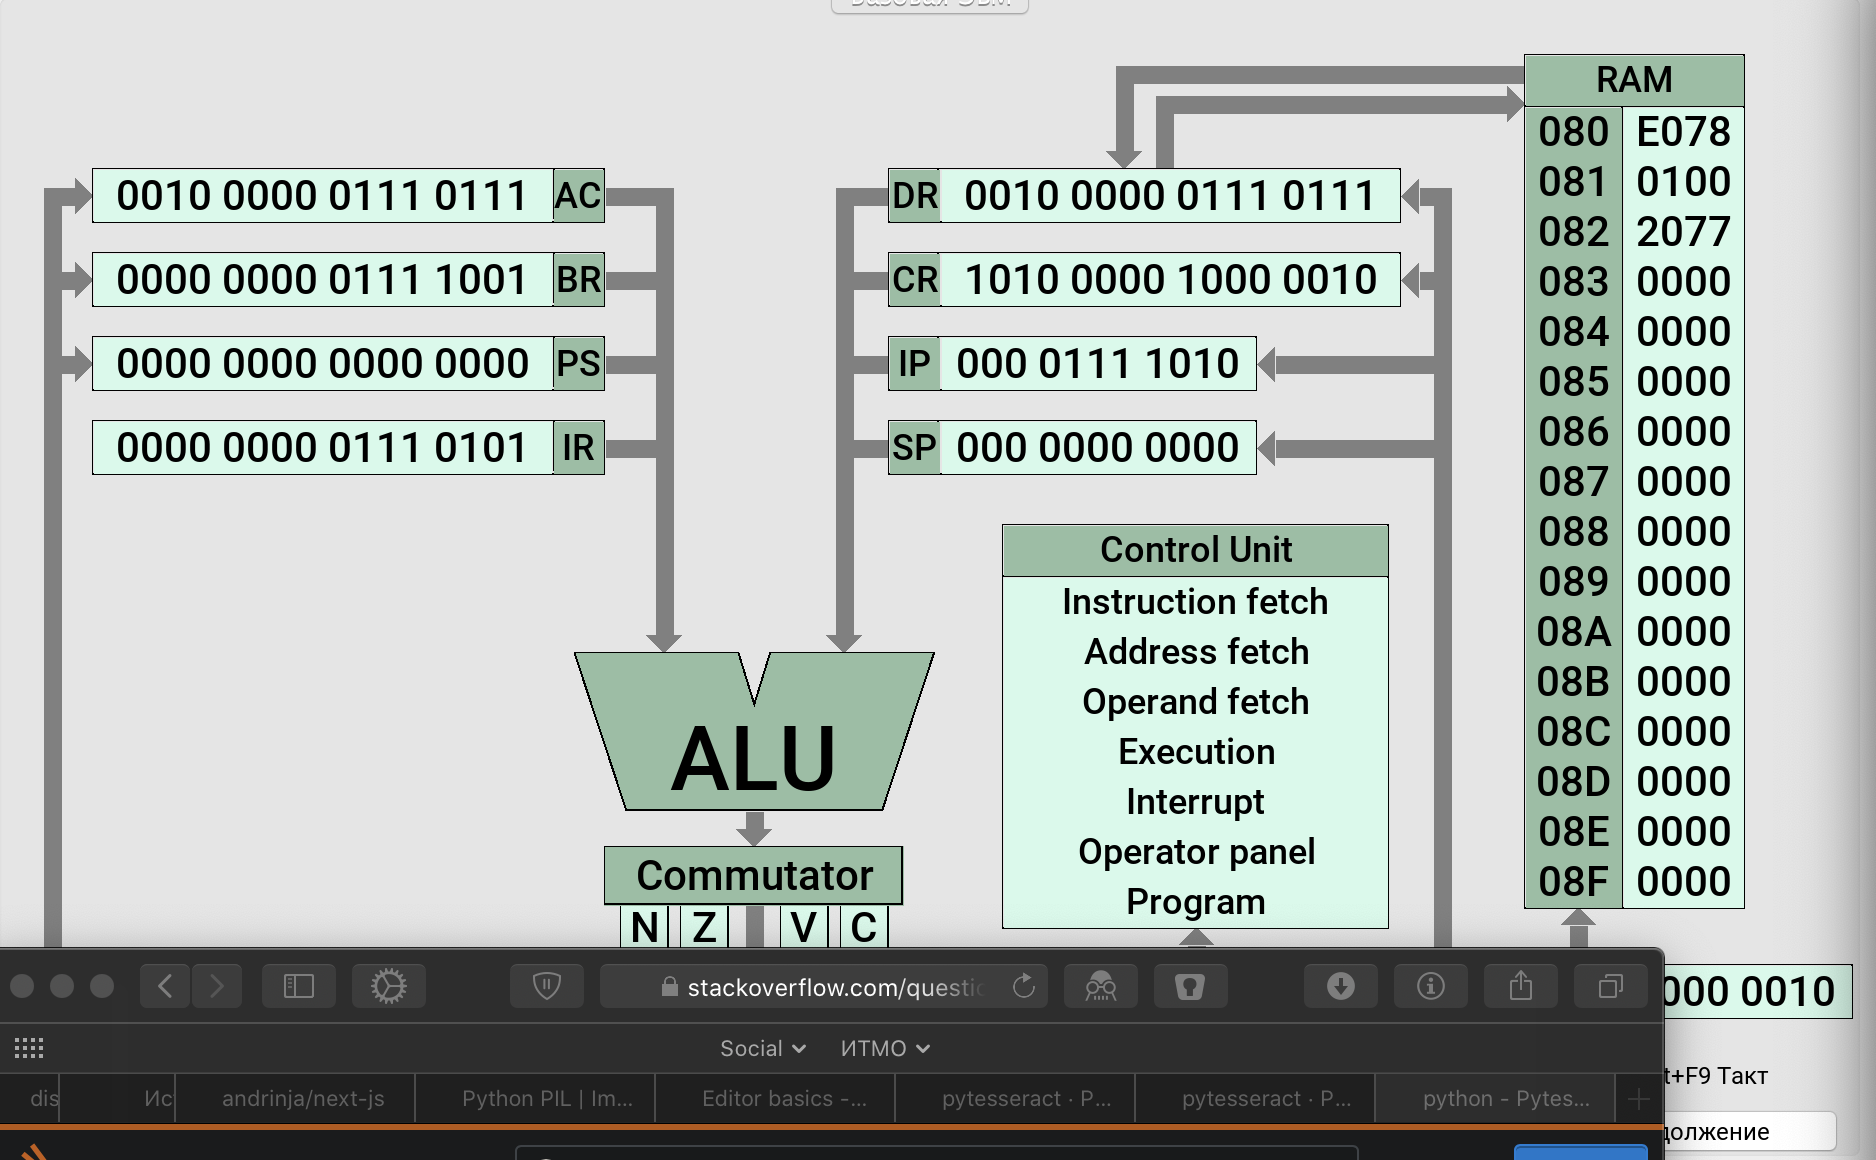
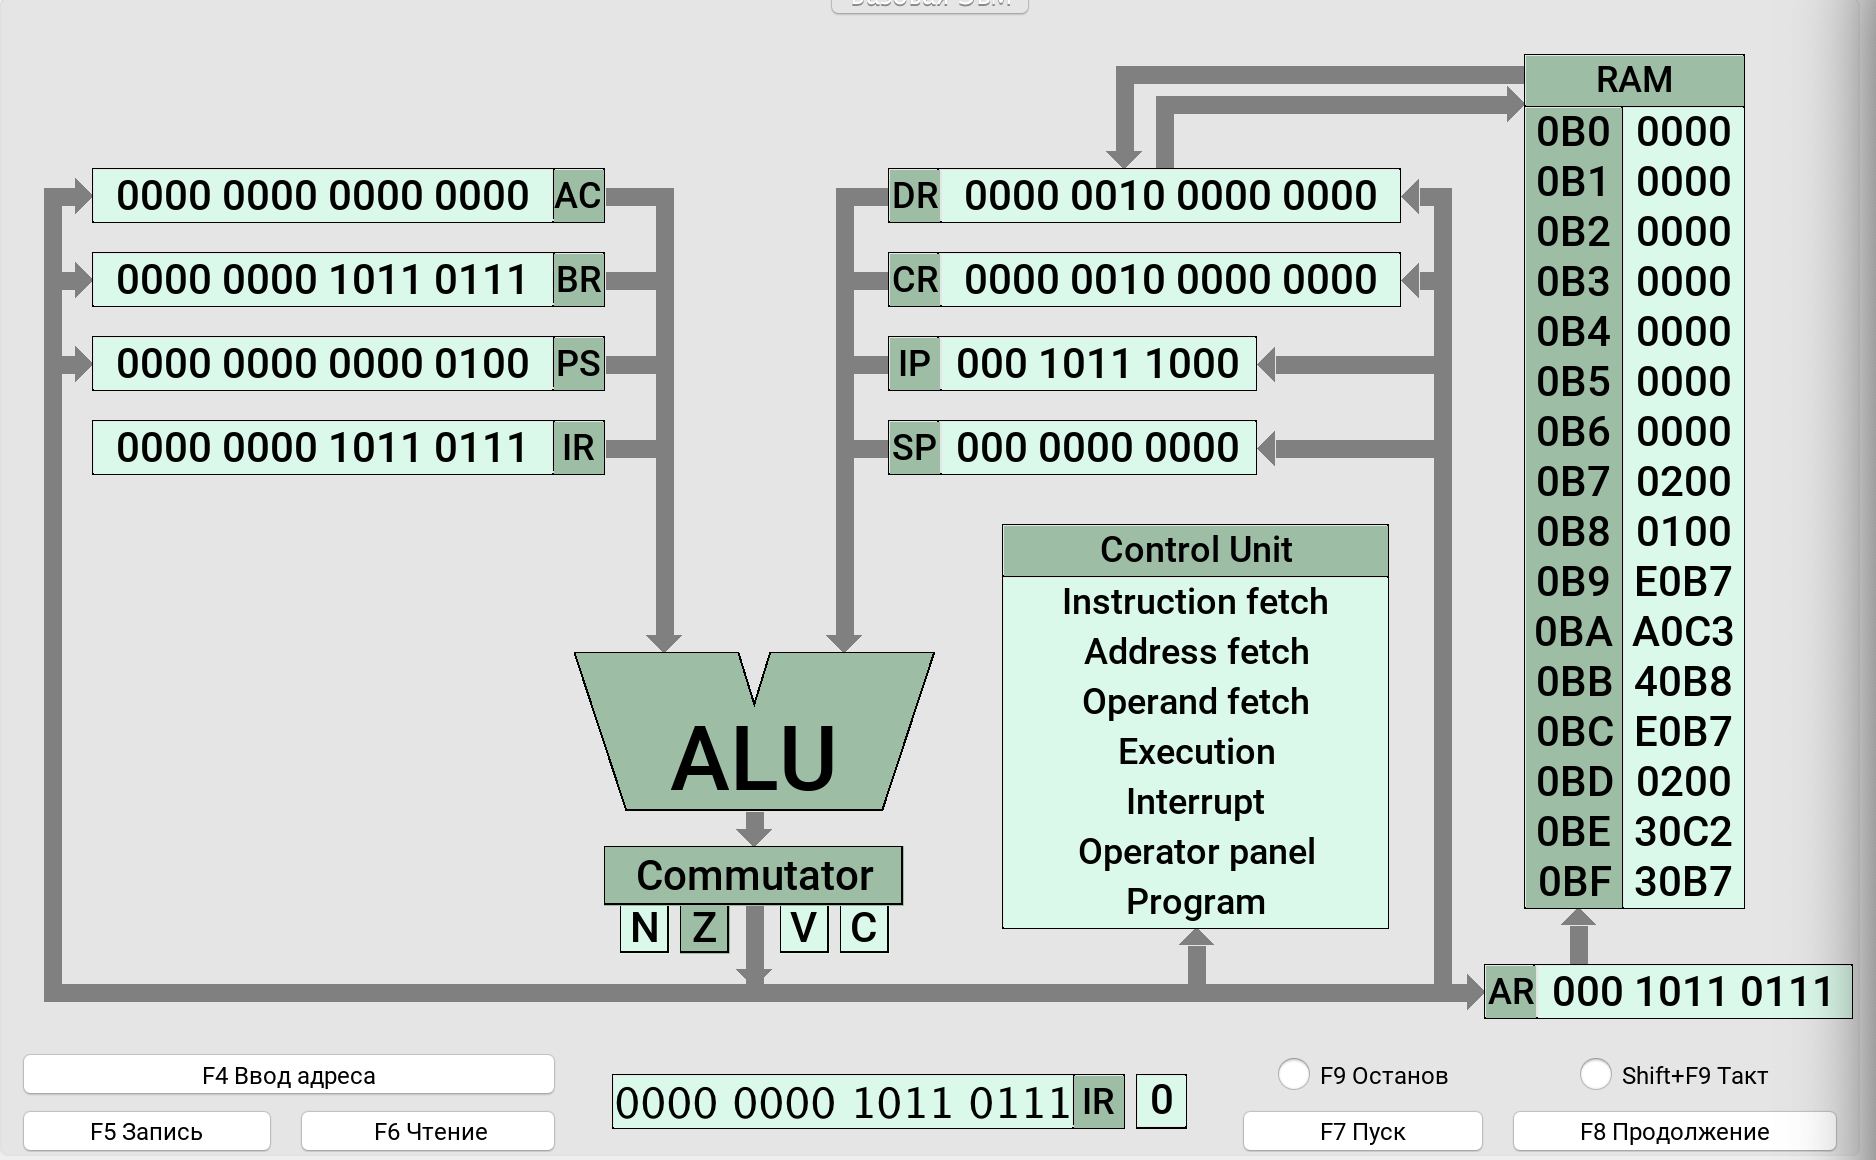
ar and ram

diff --git a/testing.py b/testing.py
@@ -2,8 +2,8 @@ from pprint import pprint
 from typing import Dict, List
 
 import pytesseract
-
 import pyautogui
+
 
 def read_flags(start_x: int, start_y: int,
                width: int, height: int,
@@ -51,8 +51,58 @@ def main():
                width_short, height,
                names_right_short,
                screenshot, flags, delay_y)
+    # pprint(flags)
 
-    pprint(flags)
+    start_x_ram, start_y_ram = (1525, 105)
+    width_ram, height_ram = (213, 805)
+    # ram_image = screenshot.crop((start_x_ram, start_y_ram,
+    #                              start_x_ram + width_ram, start_y_ram + height_ram))
+    #
+    # allowed_digits = '0123456789'
+    # allowed_chars_lower = 'abcdef'
+    # allowed_chars_upper = 'ABCDEF'
+    # allowed_chars = allowed_digits + allowed_chars_lower + allowed_chars_upper
+    # config_temp = f'tessedit_char_whitelist={allowed_chars}'
+    #
+    # ram_str = pytesseract.image_to_string(ram_image, lang = 'eng', config = config_temp)
+    # ram_list = get_processed_ram(ram_str)
+    # ram_dict = get_ram_dict(ram_list)
+    # pprint(ram_dict)
+
+    start_x_ar, start_y_ar = (1545, 965)
+    ar_image = screenshot.crop((start_x_ar, start_y_ar,
+                                start_x_ar + width_short, start_y_ar + height))
+    ar_image.save('ar.png')
+
+
+def get_processed_ram(ram_input: str) -> List[str]:
+    ram_list: List[str] = []
+    ram_split: List[str] = ram_input.splitlines()
+    for line_raw in ram_split:
+        if len(line_raw) < 3:
+            continue
+
+        line_upper = line_raw.upper()
+        line_temp = line_upper
+
+        line_temp = line_temp.replace('O', '0')
+        # line_temp = line_temp.replace('I', '1')
+        # line_temp = line_temp.replace('S', '8')
+
+        line_result = line_temp
+
+        ram_list.append(line_result)
+    return ram_list
+
+
+def get_ram_dict(ram_list: List[str]) -> Dict[str, str]:
+    ram_dict: Dict[str, str] = dict()
+
+    len_half = len(ram_list) // 2
+    for elem_key, elem_value in zip(ram_list[:len_half], ram_list[len_half:]):
+        ram_dict[elem_key] = elem_value
+
+    return ram_dict
 
 
 if __name__ == '__main__':

diff --git a/argv_testing.py b/argv_testing.py
@@ -1,0 +1,15 @@
+import argparse
+
+
+def main():
+    parser = argparse.ArgumentParser(description = 'test description')
+
+    parser.add_argument('integer')
+
+    parser.add_argument('--file', '-f')
+
+    parser.parse_args()
+
+
+if __name__ == '__main__':
+    main()
